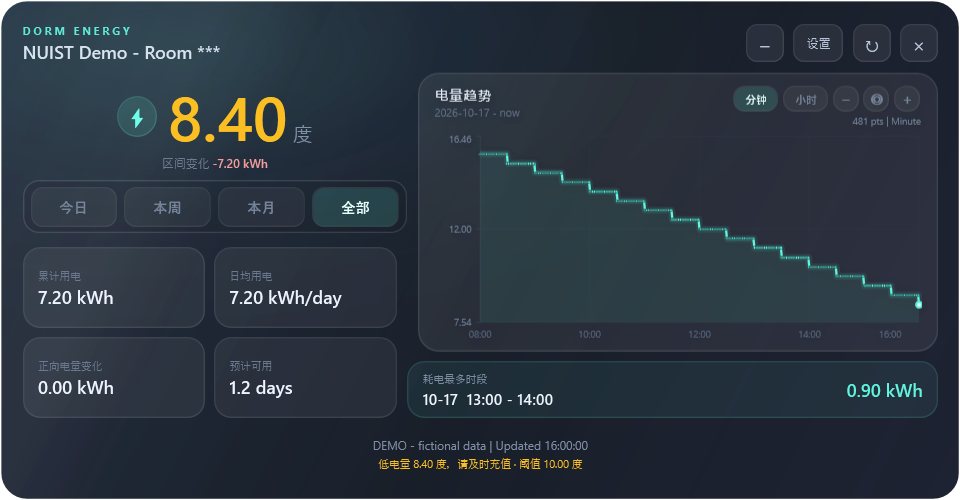
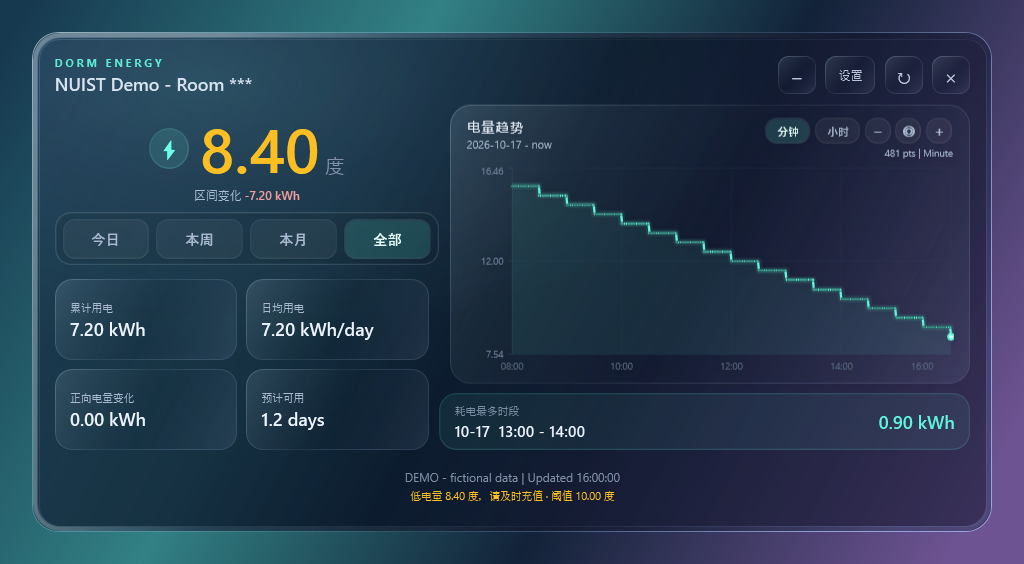
feat: refresh the desktop glass material for v0.3.0

diff --git a/src/Launcher.cs b/src/Launcher.cs
@@ -9,8 +9,8 @@ using System.Windows.Forms;
 [assembly: AssemblyDescription("Unofficial NUIST electricity query desktop widget")]
 [assembly: AssemblyCompany("NUIST Electricity Query contributors")]
 [assembly: AssemblyProduct("NUIST Electricity Query")]
-[assembly: AssemblyVersion("0.2.0.0")]
-[assembly: AssemblyFileVersion("0.2.0.0")]
+[assembly: AssemblyVersion("0.3.0.0")]
+[assembly: AssemblyFileVersion("0.3.0.0")]
 
 internal static class Program
 {

diff --git a/README.md b/README.md
@@ -2,13 +2,13 @@
 
 一个面向 Windows 的宿舍剩余电量桌面小工具。主要用途是定时查看剩余电量，在电量低于自设阈值时提醒及时前往官方入口充值，减少忘记缴费的情况；同时提供本地历史曲线、日 / 周 / 月统计，以及可折叠的玻璃风格窗口。
 
-`v0.2.0` 新增 Windows 桌面低电量提醒：默认低于 **10 度**时提示，即使工具窗口隐藏或正在使用其他应用，也可通过系统托盘气泡提醒。提醒依赖电脑开机、工具运行、联网及有效授权，不能保证避免欠费停电。
+`v0.3.0` 更新玻璃界面，加入透色背景、渐层圆角斜边和跟随鼠标的边缘反光。窗口保持横版、竖版与折叠三种布局。Windows 低电量提醒默认在读数低于 **10 度**时发送，阈值及重复间隔可调。
 
 本项目是非官方个人开源项目，与南京信息工程大学及相关服务运营方没有隶属或合作关系。它不附带有效登录凭据、个人房间配置或真实历史记录，不提供支付、充值或绕过登录的功能。学校页面和接口可能调整，当前方法不保证长期可用。
 
 ## 窗口效果
 
-以下为真实 WPF 界面的演示截图：房间标识统一显示为 `Room ***`，电量、曲线和统计全部使用虚构数据，不包含个人宿舍或实际用电记录。
+以下为真实 WPF 界面的演示截图。房间标识统一显示为 `Room ***`，电量、曲线和统计均为虚构数据，渐变底图用于展示窗口透色。
 
 竖版窗口与低电量提醒设置：
 
@@ -25,7 +25,7 @@
 
 ![房间号打码的折叠电量胶囊](docs/images/desktop-compact.png)
 
-效果图可通过 `scripts/Export-Preview.ps1` 在本机重新生成；生成过程不读取个人配置、不访问学校接口，也不截取桌面或其他应用。
+效果图可通过 `scripts/Export-Preview.ps1 -ShowTransparency` 在本机重新生成。玻璃外观参考 [Glasswork](https://github.com/kubai087/glasswork)，使用 WPF 渐变和反光实现。窗口透出背景颜色，实时背景折射未接入。
 
 ## 下载与启动
 
@@ -124,4 +124,4 @@ CHANGELOG.md              版本更新记录
 
 请勿提交原始 HAR 文件、登录响应、真实历史 CSV、个人配置、日志或未脱敏的屏幕截图。可以使用 `-Demo` 生成演示界面。安全问题请参阅 [SECURITY.md](SECURITY.md)。
 
-版本：`v0.2.0`，完整改动见 [更新记录](CHANGELOG.md)。代码按 [MIT License](LICENSE) 发布；许可不代表授予任何学校账号或服务接口的访问权限。
+版本：`v0.3.0`，完整改动见 [更新记录](CHANGELOG.md)。代码按 [MIT License](LICENSE) 发布；许可不代表授予任何学校账号或服务接口的访问权限。

diff --git a/CHANGELOG.md b/CHANGELOG.md
@@ -1,5 +1,12 @@
 # 更新记录
 
+## v0.3.0
+
+- 更新窗口、统计卡片和按钮的玻璃材质。透色底、圆角斜边与鼠标反光适用于横版、竖版和折叠态。
+- 高光稳定后停止动画计时器，拖动缩放和折叠过渡期间暂停反光更新。
+- 提亮图表标题、统计标签和未选中的时间按钮。README 的演示图使用合成底图展示透色，房间号保持打码。
+- 玻璃外观参考 [Glasswork](https://github.com/kubai087/glasswork)。此版本使用原生 WPF 渐变，支持原有的便携启动方式。
+
 ## v0.2.0
 
 新增可设置的 Windows 桌面低电量提醒，帮助及时留意宿舍余量并前往官方入口缴费。
